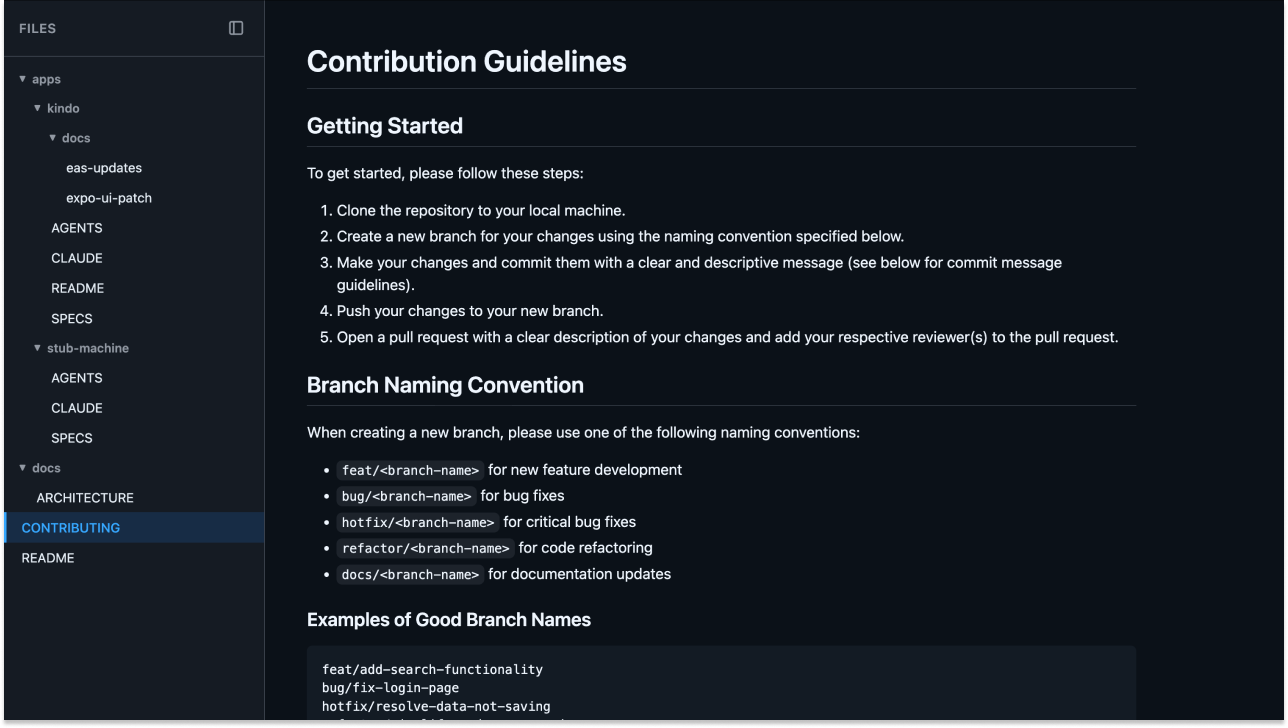
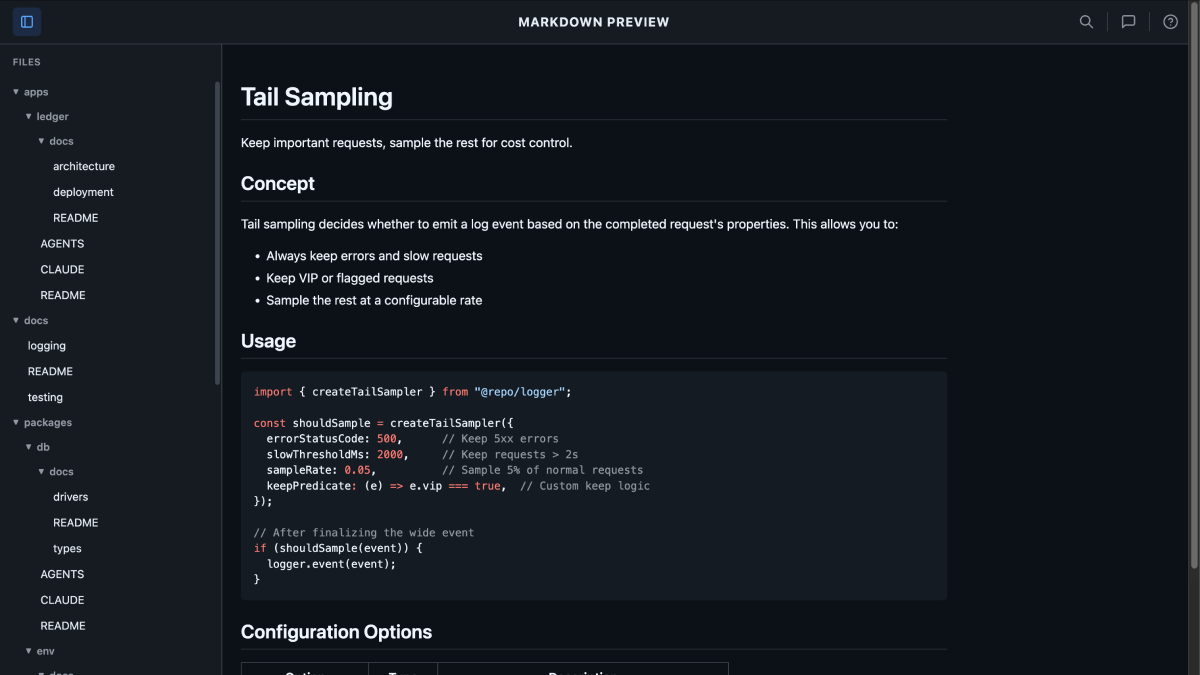
docs(blog): add install and upgrade tips
- add curl-based installation instructions and upgrade commands
- clarify upgrade steps for Homebrew and curl installs

Changed region(s): [[0.0, 0.0, 1.0, 1.0]]

diff --git a/apps/blog/src/content/blog/mdp-markdown-previewer.md b/apps/blog/src/content/blog/mdp-markdown-previewer.md
@@ -28,16 +28,25 @@ Most developers work with Markdown daily - READMEs, documentation, notes, change
 - **Directory support** - Preview all Markdown files in a folder
 - **Live reload server** - Watch files and auto-refresh on changes
 - **Respects .gitignore** - Automatically skips ignored files
+- **Auto-updates** - Get notified when new versions are available
 - **Cross-platform** - Works on macOS, Linux, and Windows
 - **Zero configuration** - Just install and use
 
 ## Installation
 
-### Using Homebrew (Recommended for macOS)
+### Using Homebrew (macOS)
 
 ```bash
 brew install sadiksaifi/tap/mdp
 ```
+
+### Using Curl (macOS/Linux)
+
+```bash
+curl -fsSL https://raw.githubusercontent.com/sadiksaifi/mdp/main/scripts/install.sh | sh
+```
+
+This installs mdp to `~/.local/bin` and automatically configures your PATH.
 
 ### From Source
 
@@ -45,6 +54,22 @@ brew install sadiksaifi/tap/mdp
 git clone https://github.com/sadiksaifi/mdp.git
 cd mdp
 make install
+```
+
+## Upgrading
+
+mdp automatically checks for updates and notifies you when a new version is available.
+
+### Homebrew
+
+```bash
+brew upgrade sadiksaifi/tap/mdp
+```
+
+### Curl Installation
+
+```bash
+mdp upgrade
 ```
 
 ## Usage
@@ -215,9 +240,13 @@ fi
 Install mdp today and simplify your Markdown workflow:
 
 ```bash
+# macOS (Homebrew)
 brew install sadiksaifi/tap/mdp
+
+# macOS/Linux (Curl)
+curl -fsSL https://raw.githubusercontent.com/sadiksaifi/mdp/main/scripts/install.sh | sh
 ```
 
-Or check out the [GitHub repository](https://github.com/sadiksaifi/mdp) for more installation options and to contribute to the project.
+Check out the [GitHub repository](https://github.com/sadiksaifi/mdp) for more options and to contribute to the project.
 
 Happy writing!
